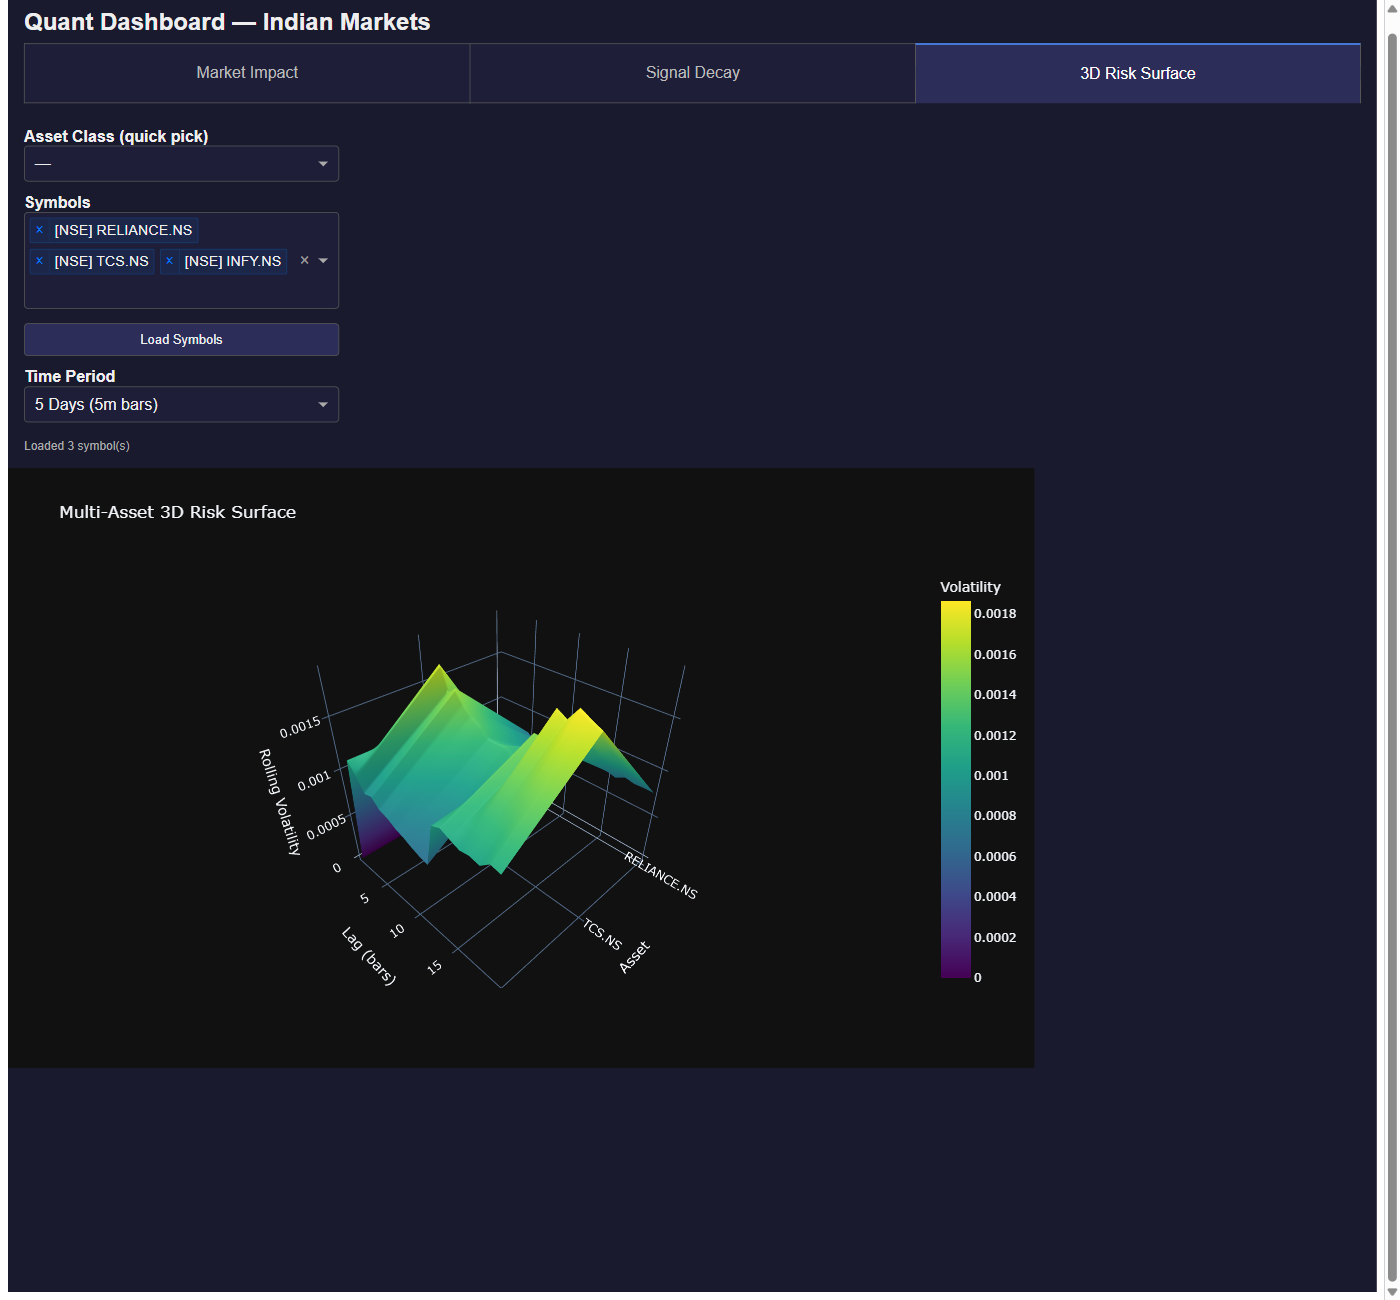
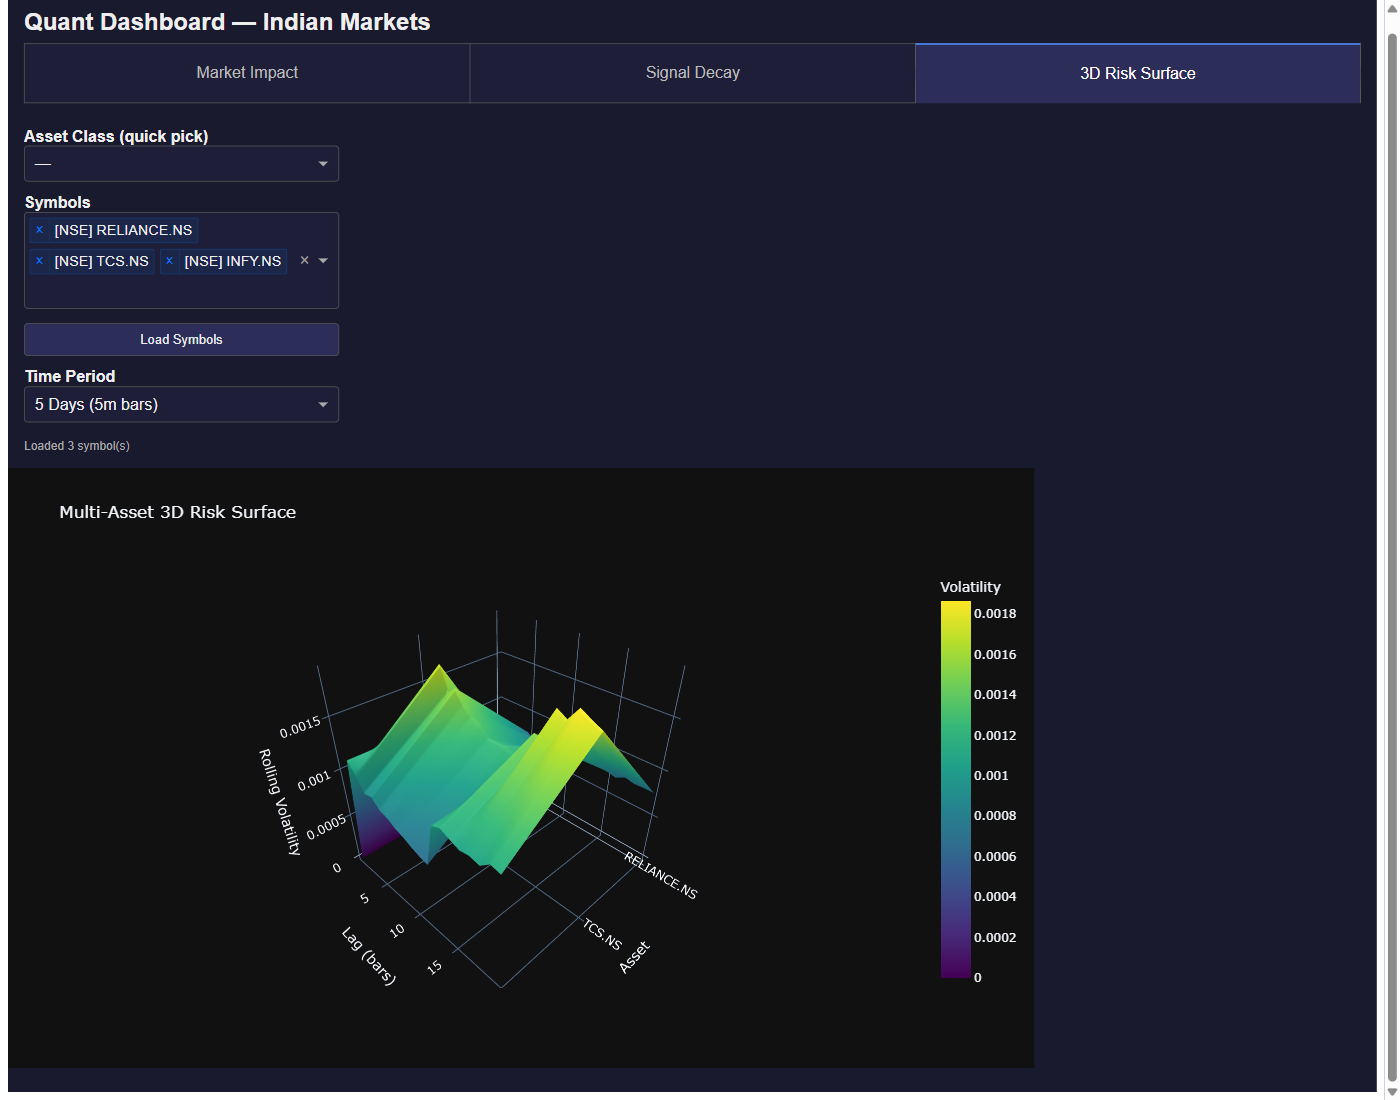
Fix LLM analysis: refresh free model list, raise token limit; add LLM screenshots
The hard-coded OpenRouter free models were mostly retired, so Ask LLM failed. Default to nvidia/nemotron-3-ultra-550b-a55b:free with an eight-model fallback, add OPENROUTER_MODEL override, raise max_tokens so reasoning models are not cut off mid-answer. README and screenshots now show real LLM output; clarify that the 3D Risk Surface tab has no LLM button.

diff --git a/quant-dashboard/llm/client.py b/quant-dashboard/llm/client.py
@@ -7,16 +7,18 @@ _URL = "https://openrouter.ai/api/v1/chat/completions"
 
 # Fallback chain — tried in order. Free models often rate-limit upstream;
 # if one provider is saturated we move to the next.
+#
+# The free tier changes often. Check https://openrouter.ai/models?q=free and
+# update this list (or set OPENROUTER_MODEL in .env) if every call starts failing.
 _FALLBACK_MODELS = [
     DEFAULT_MODEL,
-    "openai/gpt-oss-20b:free",
-    "openai/gpt-oss-120b:free",
-    "z-ai/glm-4.5-air:free",
-    "qwen/qwen3-next-80b-a3b-instruct:free",
-    "google/gemma-3-27b-it:free",
-    "google/gemma-3-12b-it:free",
-    "meta-llama/llama-3.3-70b-instruct:free",
-    "nvidia/nemotron-nano-9b-v2:free",
+    "cohere/north-mini-code:free",
+    "nvidia/nemotron-3-nano-omni-30b-a3b-reasoning:free",
+    "google/gemma-4-31b-it:free",
+    "google/gemma-4-26b-a4b-it:free",
+    "xingchen-agi/xing4.0-29b-a4b:free",
+    "nvidia/nemotron-3.5-lightning:free",
+    "recursive/flint-v1.0:free",
 ]
 
 
@@ -30,7 +32,9 @@ def _post(model: str, prompt: str) -> requests.Response:
     payload = {
         "model": model,
         "messages": [{"role": "user", "content": prompt}],
-        "max_tokens": 500,
+        # Reasoning models spend part of this budget thinking, so keep it generous
+        # or the visible answer gets cut off mid-sentence.
+        "max_tokens": 2000,
     }
     return requests.post(_URL, json=payload, headers=headers, timeout=30)
 

diff --git a/quant-dashboard/config.py b/quant-dashboard/config.py
@@ -56,7 +56,7 @@ SYMBOL_OPTIONS = [
 
 REFRESH_INTERVAL = 300
 OPENROUTER_API_KEY = os.environ.get("OPENROUTER_API_KEY", "")
-DEFAULT_MODEL = "qwen/qwen3-coder:free"
+DEFAULT_MODEL = os.environ.get("OPENROUTER_MODEL", "nvidia/nemotron-3-ultra-550b-a55b:free")
 
 SUPABASE_URL = os.environ.get("SUPABASE_URL", "")
 SUPABASE_KEY = os.environ.get("SUPABASE_KEY", "")

diff --git a/quant-dashboard/tests/test_llm_client.py b/quant-dashboard/tests/test_llm_client.py
@@ -53,4 +53,5 @@ def test_query_llm_raises_when_all_models_fail(mock_post):
     from llm.client import query_llm
     with pytest.raises(RuntimeError, match="All free models failed"):
         query_llm("prompt")
-    assert mock_post.call_count == 9
+    from llm.client import _FALLBACK_MODELS
+    assert mock_post.call_count == len(set(_FALLBACK_MODELS))

diff --git a/README.md b/README.md
@@ -7,7 +7,7 @@
 ![Supabase](https://img.shields.io/badge/storage-Supabase%20(optional)-3FCF8E?logo=supabase&logoColor=white)
 ![Tests](https://img.shields.io/badge/tests-41%20passing-brightgreen)
 
-**Quant Systems is an open-source Python dashboard for quantitative analysis of Indian equities, commodities and forex.** Pick one or more symbols, and it pulls live market data from yfinance and draws three views: **market impact** (cumulative log-returns, rolling volatility, relative volume and activity), **signal decay** (autocorrelation curves with a computed half-life) and a **3D risk surface** (rolling volatility across symbols and time). Each tab also has an **Ask LLM** button that sends the chart context to OpenRouter for a plain-language read-out.
+**Quant Systems is an open-source Python dashboard for quantitative analysis of Indian equities, commodities and forex.** Pick one or more symbols, and it pulls live market data from yfinance and draws three views: **market impact** (cumulative log-returns, rolling volatility, relative volume and activity), **signal decay** (autocorrelation curves with a computed half-life) and a **3D risk surface** (rolling volatility across lag and asset). The Market Impact and Signal Decay tabs also have an **Ask LLM** button that sends the chart context to OpenRouter and shows a plain-language read-out under the chart.
 
 It is built for students, retail quants and developers who want a small, readable example of a market-analytics app in Dash and Plotly. It is an analytics and learning tool, **not investment advice** and not a trading system.
 
@@ -38,25 +38,31 @@ It is built for students, retail quants and developers who want a small, readabl
 | --- | --- |
 | **Market Impact** | Cumulative log-returns (%), rolling volatility (20-bar standard deviation), relative volume (multiple of the mean) and rolling activity (20-bar mean absolute return) for one or many symbols |
 | **Signal Decay** | Autocorrelation of returns for lags 1 to 30, with a half-life per symbol (the first lag where correlation falls below half of its peak) |
-| **3D Risk Surface** | A 3D surface of rolling volatility across several symbols and time, for comparing risk between assets |
+| **3D Risk Surface** | A 3D surface of rolling volatility across lag (bars) and asset, for comparing risk between several symbols. No LLM button on this tab. |
 
 - **Multi-symbol selection** with a searchable dropdown of NSE stocks, commodity futures and INR forex pairs, plus a **Load Symbols** button that triggers the charts.
 - **Time periods** from 5 days of 5-minute bars up to 1 year of daily bars.
-- **Ask LLM** on every tab. It tries a nine-model free-tier fallback chain on OpenRouter, so one rate-limited model does not break the feature.
+- **Ask LLM** on the Market Impact and Signal Decay tabs. It tries an eight-model free-tier fallback chain on OpenRouter, so one rate-limited model does not break the feature.
 - **In-memory cache** with background refresh and anomaly detection for the default watchlist.
 - **Optional persistence** of OHLCV data to a Supabase table.
 
 ## Screenshots
 
-### Signal decay: how quickly return autocorrelation fades
+### Market impact with LLM analysis
 
-![Signal Decay tab showing autocorrelation by lag for RELIANCE.NS](docs/images/signal-decay.png)
+![Market Impact tab with cumulative log returns for RELIANCE.NS and the LLM analysis written by nvidia/nemotron-3-ultra-550b-a55b:free](docs/images/market-impact.png)
 
-### 3D risk surface: rolling volatility across RELIANCE, TCS and INFY
+The **LLM Analysis** panel under the chart shows the model that answered (`[via ...]`) and its read-out of the market impact fit.
 
-![3D Risk Surface tab showing a rolling volatility surface for three NSE stocks](docs/images/risk-surface.png)
+### Signal decay with LLM analysis
 
-*Screenshots are from a real run of the app with live yfinance data. The figures depend on the market data available on the day you run it.*
+![Signal Decay tab with autocorrelation by lag for RELIANCE.NS and the LLM analysis written by cohere/north-mini-code:free](docs/images/signal-decay.png)
+
+### 3D risk surface: rolling volatility across lag and asset
+
+![3D Risk Surface tab showing a rolling volatility surface for RELIANCE.NS, TCS.NS and INFY.NS](docs/images/risk-surface.png)
+
+*Screenshots are from a real run with live yfinance data and live OpenRouter free models. Figures and LLM wording vary with the market data and the model that answers.*
 
 ---
 
@@ -70,7 +76,7 @@ $ python -m pytest tests/ -q
 41 passed in 2.30s
 ```
 
-The app was then started with `python app.py`, opened at `http://127.0.0.1:8050`, and all three tabs were loaded with live data for RELIANCE.NS, TCS.NS and INFY.NS. The screenshots above come from that session. The **Ask LLM** feature was not exercised in that session, because it needs an OpenRouter API key; its request, fallback and error paths are covered by unit tests with the network mocked.
+The app was then started with `python app.py`, opened at `http://127.0.0.1:8050`, and all three tabs were loaded with live data for RELIANCE.NS, TCS.NS and INFY.NS. The screenshots above come from that session. **Ask LLM** was then run with a real OpenRouter key on the Market Impact tab (answered by `nvidia/nemotron-3-ultra-550b-a55b:free`) and on the Signal Decay tab (answered by `cohere/north-mini-code:free` after a first-choice model did not return text). The request, fallback and error paths are also covered by unit tests with the network mocked.
 
 ---
 
@@ -83,7 +89,7 @@ flowchart LR
     C --> D[Analytics modules<br/>market impact, signal decay, risk surface]
     D --> E[Plotly figures<br/>in the Dash tabs]
     D --> F[Prompt templates]
-    F --> G[OpenRouter<br/>9-model fallback chain]
+    F --> G[OpenRouter<br/>8-model fallback chain]
     B -. optional .-> H[(Supabase<br/>OHLCV table)]
 ```
 
@@ -96,7 +102,7 @@ flowchart LR
 
 ## Quick start
 
-**Verified on Python 3.11 on Windows.** The pinned versions in `requirements.txt` have no prebuilt wheels for Python 3.13, so use Python 3.11 or 3.12 with the pinned file. On Python 3.13 the pins for NumPy, pandas and SciPy fail to build; loosen them to newer releases and run the tests yourself.
+**Verified on Python 3.11 on Windows.** The pinned versions in `requirements.txt` have no prebuilt wheels for Python 3.13, so use Python 3.11 with the pinned file (3.12 is untested). On Python 3.13 the pins for NumPy, pandas and SciPy fail to build; loosen them to newer releases and run the tests yourself.
 
 ```bash
 git clone https://github.com/maahin-1/quant-systems-market-impact-signal-risk-collection.git
@@ -118,6 +124,7 @@ Copy `.env.example` to `.env` and fill in only what you need. Never commit your 
 | Variable | Needed for | Description |
 | --- | --- | --- |
 | `OPENROUTER_API_KEY` | Ask LLM | Key from [openrouter.ai](https://openrouter.ai) |
+| `OPENROUTER_MODEL` | Ask LLM (optional) | Free model to try first. Default: `nvidia/nemotron-3-ultra-550b-a55b:free`. Browse free models at [openrouter.ai/models?q=free](https://openrouter.ai/models?q=free). |
 | `SUPABASE_URL` | Persistence (optional) | Your Supabase project URL |
 | `SUPABASE_KEY` | Persistence (optional) | Supabase service role key. Keep it secret. |
 
@@ -159,7 +166,7 @@ quant-dashboard/
     cache.py              In-memory cache, background refresh, anomaly checks
     supabase_client.py    Optional OHLCV persistence
   llm/
-    client.py             OpenRouter client with 9-model fallback
+    client.py             OpenRouter client with 8-model fallback
     prompts.py            Prompt templates per tab
   modules/
     market_impact.py      Market Impact tab
@@ -185,7 +192,7 @@ The suite is offline: yfinance and OpenRouter calls are mocked, so it needs no n
 
 - **Learning and research tool.** It makes no trading recommendations, and its numbers are not validated for real trading.
 - **Free data.** yfinance is an unofficial source. It can lag, return gaps or change without notice, and intraday history is limited to recent days.
-- **Free-tier LLMs.** The commentary comes from free OpenRouter models, which can be slow, rate-limited or wrong. Treat it as a draft explanation, not analysis.
+- **Free-tier LLMs.** The commentary comes from free OpenRouter models, which can be slow, rate-limited or wrong, and the free list changes often. During testing two of the eight models in the chain returned rate-limit errors and two returned empty text, so the fallback matters. If every call fails, update the list in `llm/client.py` or set `OPENROUTER_MODEL`. The wording can sound like trading advice (for example "exit the position"); it is not. Treat it as a draft explanation, not analysis.
 - **Verified on one setup:** Python 3.11 on Windows. Other platforms and Python versions are untested.
 
 ---
@@ -208,10 +215,10 @@ No, not to see the charts. You need an OpenRouter key for the Ask LLM button, an
 How quickly the autocorrelation of returns falls off as the lag grows. The dashboard reports a half-life: the first lag where correlation drops below half of its peak.
 
 ### What does the 3D risk surface show?
-Rolling volatility across several symbols and time, drawn as a surface so you can compare risk between assets at a glance.
+Rolling volatility across lag (bars) and asset, drawn as a surface so you can compare risk between several symbols at a glance.
 
 ### Which Python version should I use?
-Python 3.11 (verified) or 3.12. The pinned NumPy, pandas and SciPy versions do not install on Python 3.13 without loosening the pins.
+Python 3.11 (verified). Python 3.12 is untested. The pinned NumPy, pandas and SciPy versions do not install on Python 3.13 without loosening the pins.
 
 ### Is this investment advice?
 No. It is a research and learning dashboard and makes no trading recommendations.
